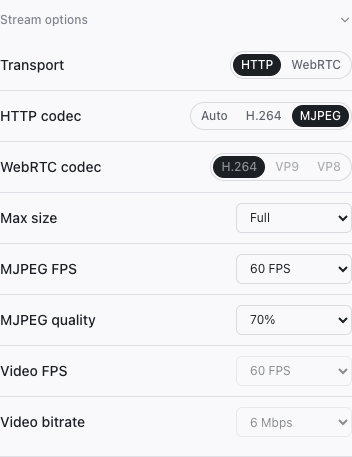
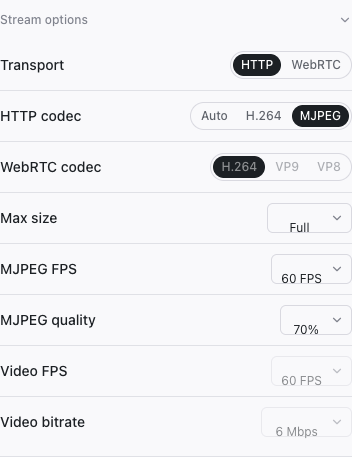
fix: add reusable stream option select

diff --git a/packages/@expo/hub-components/src/components/Select.tsx b/packages/@expo/hub-components/src/components/Select.tsx
@@ -1,0 +1,189 @@
+import {
+  Content,
+  Icon as SelectIcon,
+  Item,
+  ItemIndicator,
+  ItemText,
+  Portal,
+  Root,
+  Trigger,
+  Value,
+  Viewport,
+} from '@radix-ui/react-select';
+import { useState } from 'react';
+
+import { bg, border, icon, radius, shadow, text, textSize } from '../theme/tokens';
+import { CheckIcon, ChevronDownIcon } from './icons';
+
+export type SelectOption<Value extends string = string> = {
+  value: Value;
+  label: string;
+  disabled?: boolean;
+};
+
+export type SelectProps<Value extends string> = {
+  ariaLabel: string;
+  value: Value;
+  options: ReadonlyArray<SelectOption<Value>>;
+  disabled?: boolean;
+  onChange: (value: Value) => void;
+};
+
+/** A compact single-value select whose trigger is sized by its longest option. */
+export function Select<Value extends string>({
+  ariaLabel,
+  value,
+  options,
+  disabled = false,
+  onChange,
+}: SelectProps<Value>) {
+  const [open, setOpen] = useState(false);
+  const [focused, setFocused] = useState(false);
+  const selectedLabel = options.find((option) => option.value === value)?.label ?? value;
+
+  return (
+    <Root
+      value={value}
+      open={open}
+      onOpenChange={setOpen}
+      disabled={disabled}
+      onValueChange={(nextValue) => onChange(nextValue as Value)}
+    >
+      <Trigger
+        aria-label={ariaLabel}
+        onFocus={() => setFocused(true)}
+        onBlur={() => setFocused(false)}
+        style={{
+          ...textSize.xs,
+          display: 'inline-flex',
+          width: 'max-content',
+          height: 30,
+          flexShrink: 0,
+          alignItems: 'center',
+          justifyContent: 'space-between',
+          gap: 8,
+          boxSizing: 'border-box',
+          padding: '0 7px 0 9px',
+          border: `1px solid ${border.default}`,
+          borderRadius: radius.md,
+          outline: 'none',
+          backgroundColor: bg.subtle,
+          boxShadow: focused ? `0 0 0 2px ${border.secondary}` : shadow.none,
+          color: text.default,
+          fontFamily: 'inherit',
+          cursor: disabled ? 'default' : 'pointer',
+          opacity: disabled ? 0.5 : 1,
+        }}
+      >
+        <span
+          style={{
+            display: 'inline-grid',
+            minWidth: 0,
+            whiteSpace: 'nowrap',
+          }}
+        >
+          <Value>{selectedLabel}</Value>
+          <span
+            aria-hidden="true"
+            style={{
+              display: 'inline-grid',
+              gridArea: '2 / 1',
+              height: 0,
+              overflow: 'hidden',
+              visibility: 'hidden',
+            }}
+          >
+            {options.map((option) => (
+              <span key={option.value} style={{ gridArea: '1 / 1' }}>
+                {option.label}
+              </span>
+            ))}
+          </span>
+        </span>
+        <SelectIcon
+          aria-hidden="true"
+          style={{
+            display: 'flex',
+            flexShrink: 0,
+            color: icon.secondary,
+            transform: open ? 'rotate(180deg)' : undefined,
+            transition: 'transform 120ms ease',
+          }}
+        >
+          <ChevronDownIcon size={14} />
+        </SelectIcon>
+      </Trigger>
+      <Portal>
+        <Content
+          position="popper"
+          align="end"
+          sideOffset={4}
+          collisionPadding={8}
+          className="will-change-[opacity,transform] data-[side=bottom]:animate-slideUpAndFade data-[side=left]:animate-slideRightAndFade data-[side=right]:animate-slideLeftAndFade data-[side=top]:animate-slideDownAndFade"
+          style={{
+            ...textSize.xs,
+            zIndex: 605,
+            width: 'var(--radix-select-trigger-width)',
+            minWidth: 'var(--radix-select-trigger-width)',
+            maxHeight: 'var(--radix-select-content-available-height)',
+            boxSizing: 'border-box',
+            overflow: 'hidden',
+            padding: 4,
+            border: `1px solid ${border.default}`,
+            borderRadius: radius.md,
+            outline: 'none',
+            backgroundColor: bg.subtle,
+            boxShadow: shadow.md,
+            color: text.default,
+            fontFamily: 'inherit',
+          }}
+        >
+          <Viewport>
+            {options.map((option) => (
+              <Item
+                key={option.value}
+                value={option.value}
+                textValue={option.label}
+                disabled={option.disabled}
+                className="data-[highlighted]:bg-hover data-[state=checked]:bg-element"
+                style={{
+                  display: 'flex',
+                  width: '100%',
+                  height: 30,
+                  alignItems: 'center',
+                  justifyContent: 'space-between',
+                  gap: 4,
+                  boxSizing: 'border-box',
+                  padding: '0 4px',
+                  borderRadius: radius.sm,
+                  outline: 'none',
+                  color: text.default,
+                  cursor: option.disabled ? 'default' : 'pointer',
+                  opacity: option.disabled ? 0.5 : 1,
+                  userSelect: 'none',
+                }}
+              >
+                <ItemText>{option.label}</ItemText>
+                <span
+                  aria-hidden="true"
+                  style={{
+                    display: 'flex',
+                    width: 14,
+                    flexShrink: 0,
+                    alignItems: 'center',
+                    justifyContent: 'center',
+                    color: icon.default,
+                  }}
+                >
+                  <ItemIndicator>
+                    <CheckIcon size={12} />
+                  </ItemIndicator>
+                </span>
+              </Item>
+            ))}
+          </Viewport>
+        </Content>
+      </Portal>
+    </Root>
+  );
+}

diff --git a/packages/@expo/hub-components/src/dashboard/StreamOptionsSection.tsx b/packages/@expo/hub-components/src/dashboard/StreamOptionsSection.tsx
@@ -7,13 +7,12 @@ import {
   type DeviceStreamMode,
   type DeviceWebRtcCodec,
 } from '@expo/hub-client';
-import { SegmentedControl, bg, border, radius, text, textSize } from '../primitives';
+import { SegmentedControl, Select, type SelectOption, text, textSize } from '../primitives';
 import { CollapsibleSection } from './CollapsibleSection';
 import { SidebarRow } from './SidebarRow';
 import { type StreamModeAvailability } from './StreamSection';
 
 type StreamTransport = 'http' | 'webrtc';
-type SelectOption = { value: string; label: string };
 
 export type StreamOptionsSectionProps = {
   client: DeviceClient;
@@ -94,49 +93,6 @@ function withCurrentValue(
   return options.some((option) => option.value === current)
     ? options
     : [{ value: current, label: label(value) }, ...options];
-}
-
-function SettingSelect({
-  label,
-  value,
-  options,
-  disabled,
-  onChange,
-}: {
-  label: string;
-  value: string;
-  options: SelectOption[];
-  disabled: boolean;
-  onChange: (value: string) => void;
-}) {
-  return (
-    <select
-      aria-label={label}
-      value={value}
-      disabled={disabled}
-      onChange={(event) => onChange(event.currentTarget.value)}
-      style={{
-        ...textSize.xs,
-        minWidth: 116,
-        height: 30,
-        padding: '0 24px 0 9px',
-        boxSizing: 'border-box',
-        border: `1px solid ${border.default}`,
-        borderRadius: radius.md,
-        backgroundColor: bg.subtle,
-        color: text.default,
-        fontFamily: 'inherit',
-        cursor: disabled ? 'default' : 'pointer',
-        opacity: disabled ? 0.5 : 1,
-      }}
-    >
-      {options.map((option) => (
-        <option key={option.value} value={option.value}>
-          {option.label}
-        </option>
-      ))}
-    </select>
-  );
 }
 
 /** Viewer transport, codec, and serve-sim runtime encoder controls. */
@@ -233,8 +189,8 @@ export function StreamOptionsSection({
         </span>
       )}
       <SidebarRow label="Max size">
-        <SettingSelect
-          label="Max size"
+        <Select
+          ariaLabel="Max size"
           value={String(settings.maxDimension)}
           options={withCurrentValue(settings.maxDimension, MAX_DIMENSION_OPTIONS, (value) =>
             value === 0 ? 'Full' : `${value} px`,
@@ -244,8 +200,8 @@ export function StreamOptionsSection({
         />
       </SidebarRow>
       <SidebarRow label="MJPEG FPS">
-        <SettingSelect
-          label="MJPEG FPS"
+        <Select
+          ariaLabel="MJPEG FPS"
           value={String(settings.mjpegFps)}
           options={withCurrentValue(settings.mjpegFps, FPS_OPTIONS, (value) => `${value} FPS`)}
           disabled={settingsDisabled || transport !== 'http'}
@@ -253,8 +209,8 @@ export function StreamOptionsSection({
         />
       </SidebarRow>
       <SidebarRow label="MJPEG quality">
-        <SettingSelect
-          label="MJPEG quality"
+        <Select
+          ariaLabel="MJPEG quality"
           value={String(settings.mjpegQuality)}
           options={withCurrentValue(
             settings.mjpegQuality,
@@ -266,8 +222,8 @@ export function StreamOptionsSection({
         />
       </SidebarRow>
       <SidebarRow label="Video FPS">
-        <SettingSelect
-          label="Video FPS"
+        <Select
+          ariaLabel="Video FPS"
           value={String(settings.h264Fps)}
           options={withCurrentValue(settings.h264Fps, FPS_OPTIONS, (value) => `${value} FPS`)}
           disabled={settingsDisabled || !h264Active}
@@ -275,8 +231,8 @@ export function StreamOptionsSection({
         />
       </SidebarRow>
       <SidebarRow label="Video bitrate" borderBottom={false}>
-        <SettingSelect
-          label="Video bitrate"
+        <Select
+          ariaLabel="Video bitrate"
           value={String(settings.h264Bitrate)}
           options={withCurrentValue(
             settings.h264Bitrate,

diff --git a/packages/@expo/hub-components/src/index.ts b/packages/@expo/hub-components/src/index.ts
@@ -36,6 +36,7 @@ export {
   SegmentedControl,
   type SegmentedControlOption,
 } from './components/SegmentedControl';
+export { Select, type SelectOption, type SelectProps } from './components/Select';
 export { SidebarToggle } from './components/SidebarToggle';
 export { Switch, type SwitchProps } from './components/Switch';
 export { cx } from './components/cx';

diff --git a/packages/@expo/hub-components/src/primitives.ts b/packages/@expo/hub-components/src/primitives.ts
@@ -16,6 +16,7 @@ export * from './components/DropdownItem';
 export * from './components/Logo';
 export * from './components/ResizeHandle';
 export * from './components/SegmentedControl';
+export * from './components/Select';
 export * from './components/SidebarToggle';
 export * from './components/Switch';
 export * from './components/cx';

diff --git a/packages/expo-device-hub/global.css b/packages/expo-device-hub/global.css
@@ -98,6 +98,9 @@
 @utility bg-default {
   background-color: var(--expo-theme-background-default);
 }
+@utility bg-element {
+  background-color: var(--expo-theme-background-element);
+}
 @utility bg-hover {
   background-color: var(--expo-theme-background-hover);
 }
